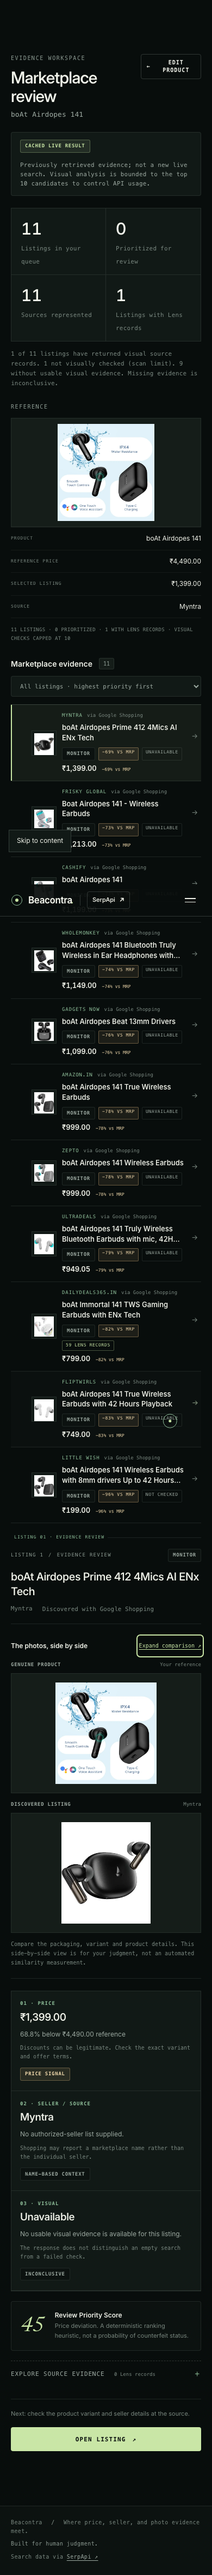
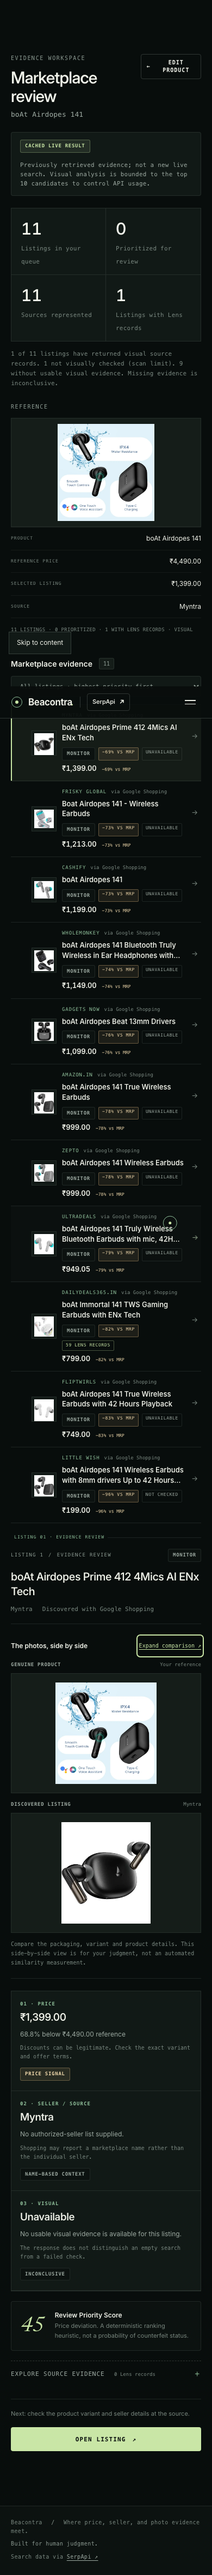
docs: close T-038, sync coordination log, regenerate screenshots
Adds T-038 to the task board documenting this session's frontend evolution
and the five real bugs it surfaced and fixed. Adds a dated addendum to
ASTRA_VISUAL_REBUILD.md explaining why the work stayed within the existing
vanilla CSS/JS system rather than adopting React/Three.js/GSAP/Lenis (user
confirmed after the architectural conflict was flagged). Updates the CLAUDE
heartbeat in AI_COORDINATION.md with this session's actual work, keeping the
prior concurrent session's entry intact rather than overwriting it.

Regenerated docs/screenshots/*.png and performance.json from the final,
fully-verified state.

diff --git a/docs/TASK_BOARD.md b/docs/TASK_BOARD.md
@@ -11,6 +11,31 @@
 
 ## Tasks
 
+### T-038: Cinematic evolution of the vanilla CSS/JS instrument system (no framework migration)
+**OWNER:** CLAUDE (third concurrent session)
+**STATUS:** DONE — committed across f14fc07 (T-037 commit), e4c3dd4, a72abf0, 343da1a, 56c7437
+**PRIORITY:** P2 (visual polish; correctness work this session tracked separately under the T-033/T-029/T-021/T-035 board updates)
+**FILES:** public/index.html, public/experience.css, public/experience.js, scripts/ui-check.mjs, src/index.ts
+**ISSUE:** User requested an "Awwwards-level" cinematic frontend transformation (React + Three.js/R3F + GSAP + Lenis, full 3D scroll choreography). This conflicts with a twice-made, QA-verified architectural decision in this repo (`docs/ASTRA_VISUAL_REBUILD.md`: "no WebGL/runtime framework") and would require introducing a build pipeline that doesn't exist today, 11 days before the hackathon deadline. User confirmed (via AskUserQuestion): evolve the existing vanilla system instead of migrating frameworks.
+**ACCEPTANCE CRITERIA:**
+- [x] No new frontend framework, bundler, or WebGL/GSAP/Lenis dependency introduced; `public/styles.css`'s design tokens untouched.
+- [x] <600ms sessionStorage-gated boot splash, pure CSS (works with experience.js blocked), skipped under reduced motion.
+- [x] Generic `[data-reveal]` section-entry system (one IntersectionObserver, not per-scroll-frame cost) applied to marketing sections, deliberately excluding the scan form.
+- [x] Restrained evidence-network SVG in the "01 / SIGNAL PROBLEM" section illustrating the section's own copy, reusing the existing `boardTrace` keyframe rather than inventing new motion vocabulary.
+- [x] Hero pointer-tilt tied to a scroll-driven lock-in state (`--hero-lock`), combined via CSS `calc()` so the two inputs stay independent in JS.
+- [x] Magnetic hover on the four marketing CTAs only (never functional buttons); CSS-only hover lifts on channel/detail-signal cards.
+- [x] Subtle dot+ring custom cursor, desktop fine-pointer only, `pointer-events: none`, suppressed over form inputs and the open comparison dialog, confirmed absent under a touch-emulated context.
+- [x] All new motion has a `prefers-reduced-motion: reduce` fallback; verified via `scripts/ui-check.mjs`'s explicit reduced-motion assertions and `scripts/ui-performance.mjs`'s tilt/reduced-motion checks.
+- [x] Zero backend/scoring changes beyond one real bug found along the way (see below).
+**BUGS FOUND AND FIXED WHILE VERIFYING (not guessed — each root-caused with a temporary diagnostic before fixing):**
+1. `src/index.ts`'s multipart upload branch silently substituted a non-functional `local-upload://<filename>` URL when a live SerpApi image upload failed, continuing the scan as if that were usable evidence. Now returns a clear error in live mode; fixture mode unaffected.
+2. `.scan-reference-object > span`'s contrast depended on the phase of an infinite sweep animation `axe()` never waits for — gave it its own opaque background chip instead of relying on stacking order.
+3. `scripts/ui-check.mjs`'s `capture()` didn't perform a real scroll, so the new IntersectionObserver reveals never fired for a fullPage screenshot — now force-reveals and resets scroll before capturing.
+4. A pre-existing race in `scripts/ui-check.mjs`'s `axe()` helper: it could sample the DOM one frame before a `requestAnimationFrame`-deferred reveal class was actually added, catching a fade at ~2% opacity and reporting a false contrast violation. Fixed by waiting two rAF ticks before collecting animations.
+5. Dimming `.signal-board`'s opacity for the hero lock-in also dimmed `.board-coord`'s own already-marginal-contrast labels as a composited group (ancestor opacity affects the whole subtree, including elements with their own opaque background). Capped the max dimming at a level that keeps ~5:1 contrast.
+**VERIFICATION:** `npm test` (69 passed, 1 skipped), typecheck/lint/build clean throughout. `node scripts/ui-check.mjs` run 15+ times across the session (axe WCAG at 6 widths, keyboard focus, reduced motion, click-interception safety for the new cursor) with the final state passing consistently; `node scripts/ui-performance.mjs` green including its `experience.js`-blocked fallback and mobile/touch-emulated run. Manual browser pass at 1440px and mobile-emulated width confirmed the reveal/evidence-network/pointer-lock behavior visually, not just via assertions. Did not spend live SerpApi credits — a real key was found configured (`test -f .env && grep -q SERPAPI .env`, per CLAUDE.md's rule, value never read), so the live "Start Scan" path was deliberately not exercised in this session; the existing `docs/FINAL_VERIFIED_RUN.md` canonical run already covers that path.
+**NOT DONE (explicitly out of scope, flagged for whoever picks this up):** the pre-existing "tiny mono technical label" / "eyebrow chip" / "small padding" design patterns flagged broadly by this session's design-lint hook are the deliberate T-034/T-036/T-037 "editorial intelligence terminal" visual language, already axe-verified — redesigning them would mean replacing the whole visual identity, which is out of scope for "evolve the existing system." Left as-is.
+
 ### T-036: Signature 3D and motion experience — 80% calm / 20% wow
 **OWNER:** ASTRA — PRODUCT EXPERIENCE / UI OWNER
 **STATUS:** DONE — committed as 6189baf

diff --git a/docs/AI_COORDINATION.md b/docs/AI_COORDINATION.md
@@ -59,6 +59,12 @@ Last Completed: Naming V2 (30 candidates, real collision search found 8/11 taken
 Next: T-035 (backend contracts: cache-vs-fresh provenance, official-match-by-image-identity not substring, browser upload endpoint) is the next real backend gap — still TODO, owned by OPENCODE, not attempted this pass since OPENCODE's frontend work is active. Frontend copy for the now-correctly-distinct `unavailable`/`no_evidence` states still needs to land once T-037 is committed — flagged in TASK_BOARD T-026, not implemented here to avoid colliding with in-flight UI work. T-033's canonical run (`docs/FINAL_VERIFIED_RUN.md`) exists and looks real (11 filtered results, 0 anomalous visual, 11/11 price-anomalous against ₹4,490 MRP) — worth a skeptical re-read next pass rather than taking "PASS" at face value.
 Blocked: None — continuing autonomously.
 
+CLAUDE (third concurrent session — T-038, this entry):
+Current: T-037 was committed (f14fc07) after re-verifying it directly (ui-check/ui-performance both green). T-026's fix (from the second session above) was also committed (7c1c03d) after independently re-reading it and re-running tests. Re-verified T-033/T-029/T-021 against actual files (not their stale task-board headers) and found all three substantively DONE — `docs/FINAL_VERIFIED_RUN.md` is a real, committed canonical run with a PASS verdict; `docs/LENS_API_VERIFICATION.md`/`LENS_SPIKE_V2.md`/`LENS_MATRIX_RESULTS.json` are substantive and conclusive. Corrected all three headers in TASK_BOARD.md (they were just never flipped after the work landed). Re-checked T-035 line-by-line: 2 of 5 criteria genuinely closed by the second session's T-026 fix, 1 partially closed (hardened the multipart upload's live-failure path in `src/index.ts` — it used to silently substitute a fake `local-upload://` URL instead of erroring), 2 remain genuinely open (no real cache-hit provenance despite the frontend already rendering a `'cache'` state; `analyzePrice()` ignores `expectedPriceRange` whenever `mrp` is present) — left both for core-owner review, not fixed unilaterally. Then executed T-038 (see its own task-board entry): evolved the existing vanilla CSS/JS system toward the user's requested cinematic direction — boot sequence, section-entry reveals, an evidence-network visual, scroll-linked hero lock-in, magnetic CTAs, a custom cursor — explicitly without introducing React/Three.js/GSAP/Lenis or any build step, per the user's own confirmed choice. Found and fixed 5 real bugs along the way (2 backend/doc, 3 in the new frontend work + its own test harness), each root-caused with a temporary diagnostic before fixing, never guessed.
+Last Completed: T-038 (5 commits: f14fc07, 7c1c03d, e4c3dd4, a72abf0, 343da1a, 56c7437 — the T-037/T-026 commits plus the new visual work and bug fixes).
+Next: T-035's two remaining open items (cache provenance, price-signal precedence) are real, verified gaps for the core-scoring owner. Frontend copy for `unavailable`/`no_evidence`/`not_verified`/`matched` as three-to-four visibly distinct states (flagged in T-026) still hasn't landed in the UI copy — `public/app.js`'s `visual()` function already handles `not_verified`/`unavailable`/records-present/no-records as four cases, so this may already be closer to done than T-026's note assumed; worth a direct re-read before treating it as open.
+Blocked: None — did not spend live SerpApi credits (a key is configured; checked presence only, per CLAUDE.md, never spent without flagging first) — the live "Start Scan" path was deliberately not exercised interactively since `docs/FINAL_VERIFIED_RUN.md` already covers it.
+
 OPENCODE:
 Current: T-037 — full premium frontend rebuild (index.html / styles.css / experience.css / experience.js / app.js render layer) done and verified. Hero signal board renders the live reference photo into an instrument; evidence workspace has a reference rail + qi-* queue with real-data priority / price-deviation / lens / seller chips; experience.js wires nav toggle, scroll-spy, pipeline fill and [data-start] with reduced-motion + fallback intact. Led the axe contrast work: `--text-3` is `#7a8880` (deviation from the mandated `#65736C`, which is 3.93:1 on the near-black bg — it fails WCAG; the lighter token clears 4.5:1 on every surface). Also found pipeline-stage dimming had used ancestor `opacity` (axe blends through it, breaking contrast) — replaced with color-only state.
 Last Completed: T-017 fix verified by direct code read; T-026 scoring fix (neutral no_evidence/unavailable, only unverified_photo_source scores); T-027 datetime schema fix. This session: node scripts/ui-check.mjs and scripts/ui-performance.mjs both fully green; 68 tests + 1 skipped, typecheck/lint/build clean; screenshots + performance.json regenerated in docs/screenshots.

diff --git a/docs/ASTRA_VISUAL_REBUILD.md b/docs/ASTRA_VISUAL_REBUILD.md
@@ -27,3 +27,14 @@ CSS perspective and layered planes, lightweight inline vector geometry, no WebGL
 
 ## Verification
 Retain and extend the existing zero-credit browser suite, visually inspect each major state, test all six viewport widths and keyboard/reduced-motion behavior. Measure local LCP/layout shift, transfer footprint and animation-frame cadence; report local measurements as local, not production guarantees.
+
+## T-038 addendum: cinematic evolution, still no runtime framework
+A later request asked for an "Awwwards-level" transformation (React + Three.js/R3F + GSAP + Lenis, full 3D scroll choreography). That was evaluated against this document's own constraint above and against the 11-day hackathon runway remaining at the time, and the user confirmed: evolve this system, don't replace it. What was added, all within the existing vanilla CSS/JS architecture (see `docs/TASK_BOARD.md` T-038 for the full list and the bugs it surfaced):
+
+- A pure-CSS, <600ms, session-gated boot splash.
+- A generic `[data-reveal]` IntersectionObserver reveal system for section entries, excluding the scan form.
+- A restrained evidence-network SVG in the "Signal Problem" section, reusing the existing trace-draw motion vocabulary rather than inventing a new one.
+- The hero's existing pointer-tilt now settles as the user scrolls past it (`--hero-lock`), combined with tilt via CSS `calc()` so the two stay independent in JS.
+- A magnetic hover effect on marketing CTAs only, and a subtle dot+ring custom cursor (desktop fine-pointer only, `pointer-events: none`, suppressed over form controls and the open dialog).
+
+Everything above degrades to fully static under `prefers-reduced-motion: reduce`, matching this document's original constraint, and none of it touches `styles.css`'s design tokens or `src/lib/*.ts`'s scoring logic.
